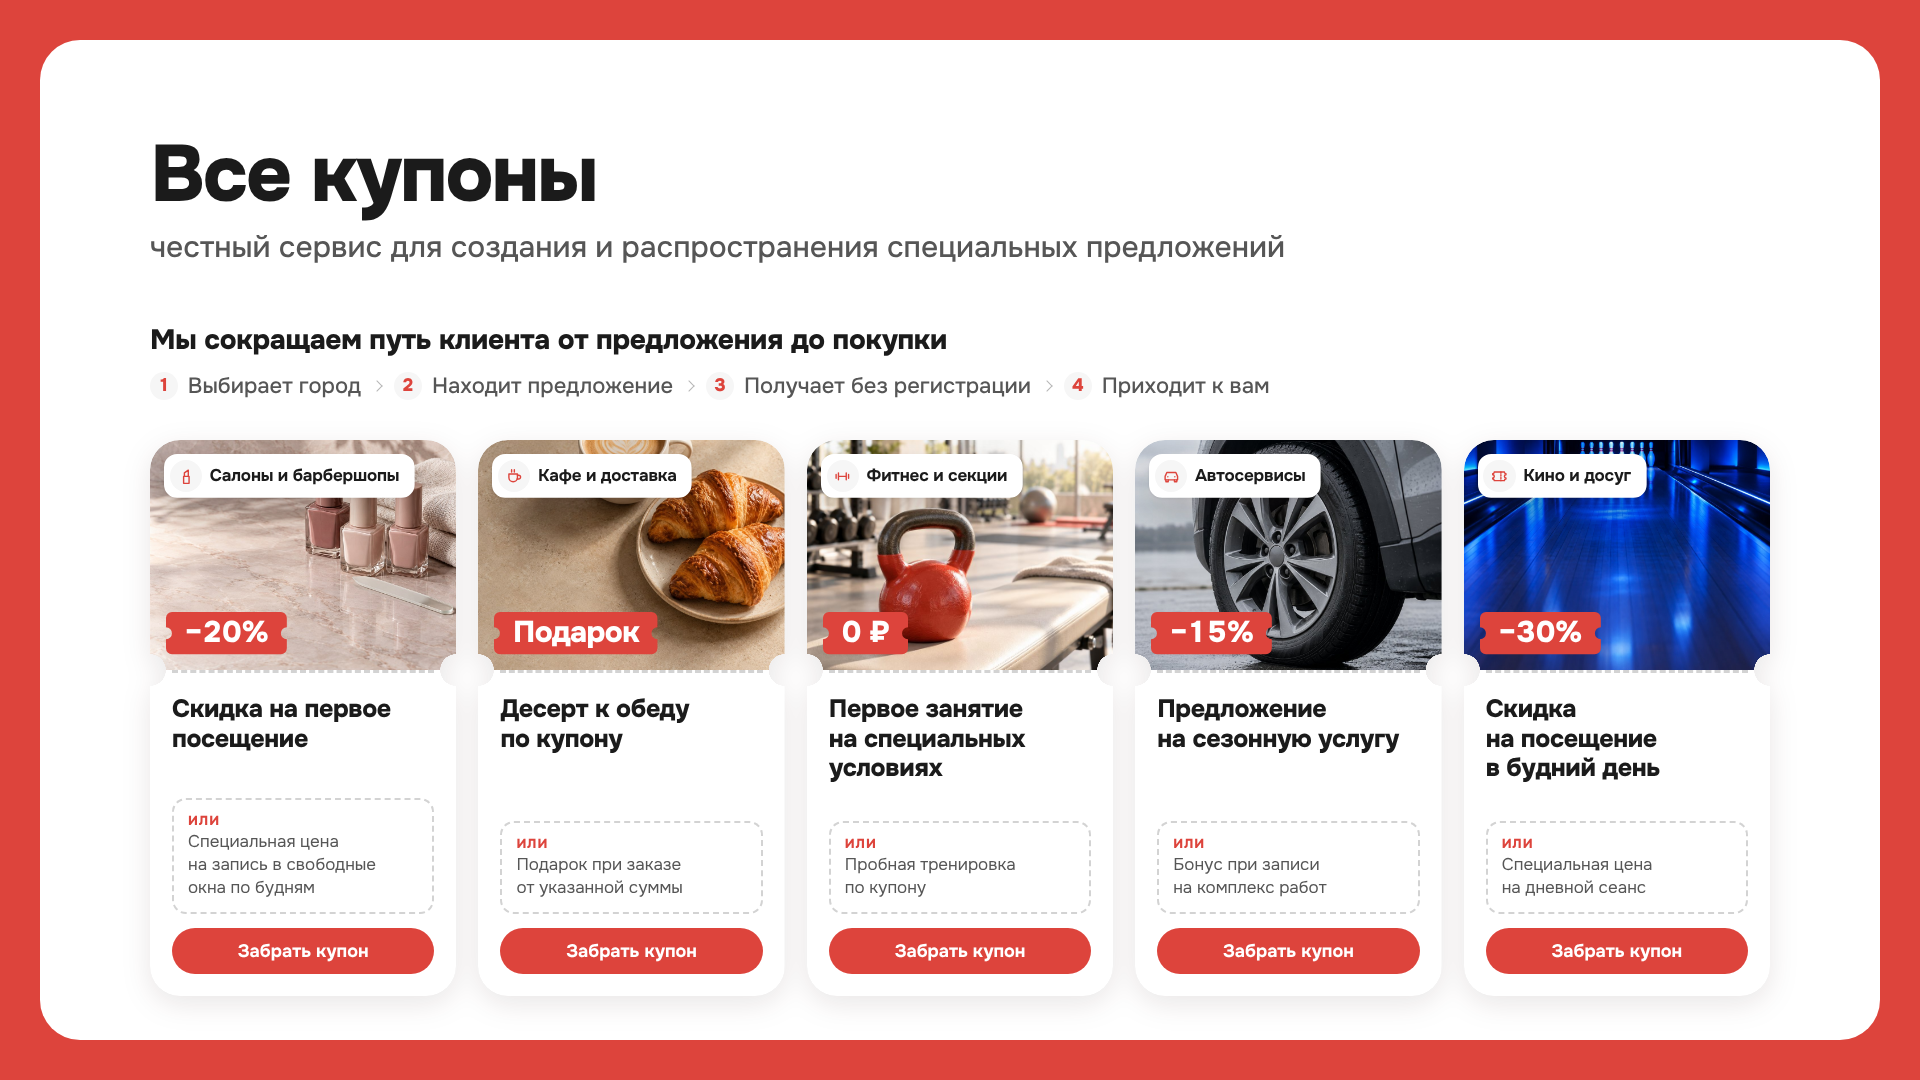
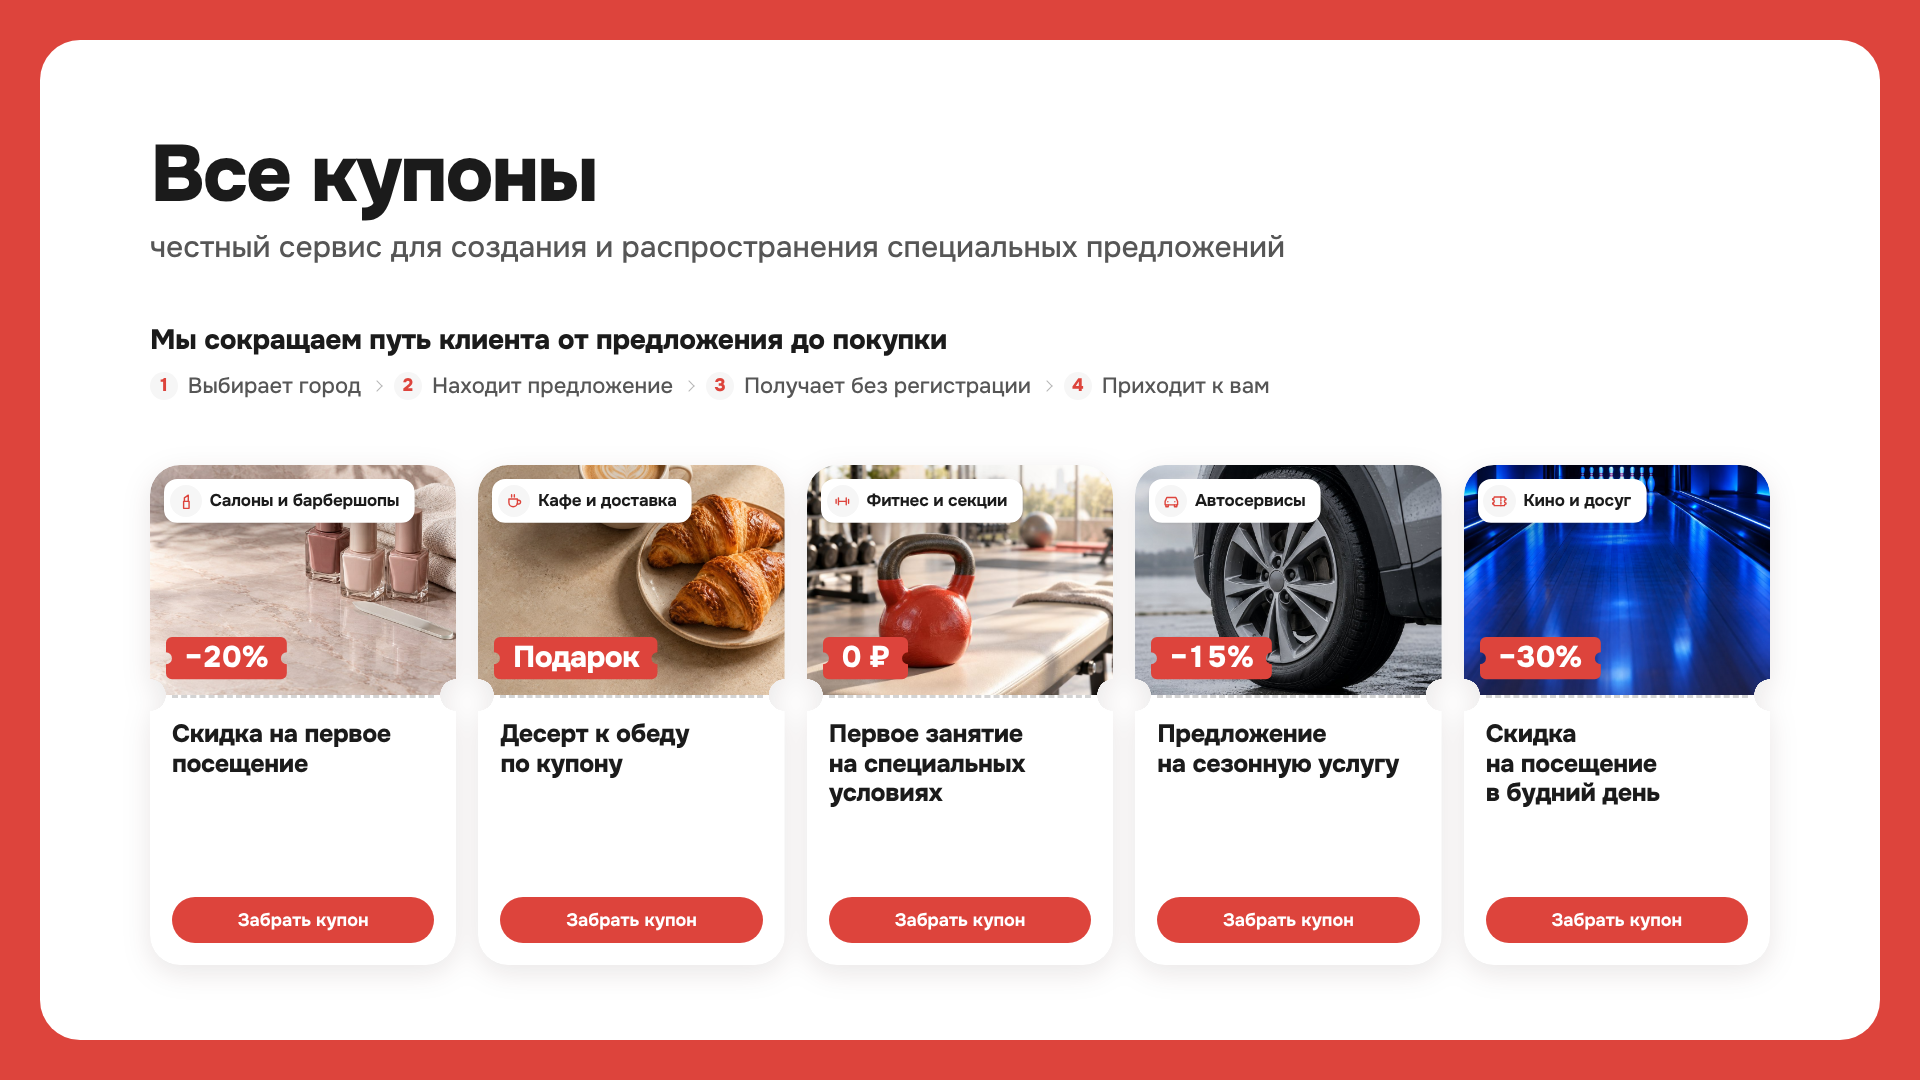
Презентация: счётчики просмотров и «забрали» на стене купонов, без блоков «или» в купонах ниш
Claude-Session: https://claude.ai/code/session_01HQTTQEBkqu3b2tPP56NRpL

Changed region(s): [[0.0625, 0.3972, 0.9375, 0.9167]]

diff --git a/social-kit/deck.html b/social-kit/deck.html
@@ -218,14 +218,14 @@ a{color:inherit;text-decoration:none}
 .short{position:absolute;left:110px;top:282px;display:flex;flex-direction:column;align-items:flex-start;gap:14px}
 .short__k{font-size:28px;font-weight:800;letter-spacing:-.01em}
 .short .steps{font-size:22px}
-.niches{position:absolute;left:150px;right:150px;top:440px;display:flex;gap:22px}
+.niches{position:absolute;left:150px;right:150px;top:465px;display:flex;gap:22px}
 /* Купон ниши — как карточка ленты: снимок с плашкой бизнеса и билетиком
    выгоды, линия отрыва, предложение, второй вариант в рамке «или»,
    кнопка. Величины выгоды — примеры. */
 /* Вырезы — маской из самой карточки (сквозные), тень — у ряда целиком
    через drop-shadow, поэтому она идёт по контуру купона вместе с вырезами */
 .niches{filter:drop-shadow(0 8px 14px rgba(40,10,8,.10))}
-.nc{flex:1;position:relative;height:556px;border-radius:30px;background:#fff;overflow:hidden;display:flex;flex-direction:column;
+.nc{flex:1;position:relative;height:500px;border-radius:30px;background:#fff;overflow:hidden;display:flex;flex-direction:column;
   -webkit-mask:radial-gradient(circle 16px at 0 230px,#0000 98%,#000) left/51% 100% no-repeat,radial-gradient(circle 16px at 100% 230px,#0000 98%,#000) right/51% 100% no-repeat;
           mask:radial-gradient(circle 16px at 0 230px,#0000 98%,#000) left/51% 100% no-repeat,radial-gradient(circle 16px at 100% 230px,#0000 98%,#000) right/51% 100% no-repeat}
 .nc__ph{position:relative;height:230px;flex:none;background:var(--surface-2) center / cover no-repeat}
@@ -237,7 +237,7 @@ a{color:inherit;text-decoration:none}
 .nc__t{font-size:25px;font-weight:800;line-height:1.18;letter-spacing:-.015em}
 .nc__or{margin-top:auto;padding:12px 14px;border-radius:14px;border:2px dashed var(--line-strong);font-size:17px;line-height:1.35;color:var(--ink-2)}
 .nc__or span{display:block;margin-bottom:2px;font-size:13px;font-weight:800;text-transform:uppercase;letter-spacing:.08em;color:var(--brand)}
-.nc__go{margin-top:14px;height:46px;border-radius:23px;background:var(--brand);color:#fff;display:grid;place-items:center;font-size:18px;font-weight:700}
+.nc__go{margin-top:auto;height:46px;border-radius:23px;background:var(--brand);color:#fff;display:grid;place-items:center;font-size:18px;font-weight:700}
 
 /* ==========================================================================
    3. Выгоду ищут каждый день — запросы Вордстата
@@ -476,7 +476,13 @@ a{color:inherit;text-decoration:none}
 .wc{position:relative;border-radius:22px;background:#fff;overflow:hidden;box-shadow:0 20px 34px -24px rgba(40,10,8,.4)}
 .wc__ph{position:relative;height:250px;background:center / cover no-repeat}
 .wc__ph .tk{position:absolute;left:14px;bottom:14px;font-size:26px}
-.wc__t{padding:14px 16px 18px;font-size:19px;font-weight:700;line-height:1.25}
+.wc__t{padding:14px 16px 8px;font-size:19px;font-weight:700;line-height:1.25}
+.wc__s{display:flex;align-items:center;gap:16px;padding:2px 16px 18px;font-size:20px;font-weight:700;color:var(--ink-2);font-variant-numeric:tabular-nums}
+.wc__s span{display:flex;align-items:center;gap:6px}
+.wc__s svg{width:22px;height:22px;color:var(--ink-3)}
+.wc__s span.is-hot{color:var(--brand)}
+.wc__s span.is-hot svg{color:var(--brand)}
+.wc.is-you .wc__s{color:var(--brand)}
 .wc.is-you{transform:scale(1.06);box-shadow:0 0 0 6px var(--brand), 0 30px 50px -20px rgba(120,20,10,.55);z-index:2}
 .wc__you{position:absolute;right:14px;top:14px;padding:8px 14px;border-radius:16px;background:var(--brand);color:#fff;font-size:18px;font-weight:800}
 /* Плашка и купон с QR — одной ширины (820), по одной левой линии */
@@ -565,35 +571,30 @@ a{color:inherit;text-decoration:none}
         <div class="nc__ph" style="background-image:url('../assets/coupons/manikyur-rose.jpg');background-position:50% 20%"><span data-stub="krasota|Салоны и барбершопы"></span><span class="tk">−20%</span></div>
         <div class="nc__perf"><i></i><i></i></div>
         <div class="nc__b"><div class="nc__t">Скидка на&nbsp;первое посещение</div>
-          <div class="nc__or"><span>или</span>Специальная цена на&nbsp;запись в&nbsp;свободные окна по&nbsp;будням</div>
           <div class="nc__go">Забрать купон</div></div>
       </div>
       <div class="nc">
         <div class="nc__ph" style="background-image:url('../assets/coupons/kofe-warm.jpg');background-position:50% 30%"><span data-stub="eda|Кафе и доставка"></span><span class="tk">Подарок</span></div>
         <div class="nc__perf"><i></i><i></i></div>
         <div class="nc__b"><div class="nc__t">Десерт к&nbsp;обеду по&nbsp;купону</div>
-          <div class="nc__or"><span>или</span>Подарок при заказе от&nbsp;указанной суммы</div>
           <div class="nc__go">Забрать купон</div></div>
       </div>
       <div class="nc">
         <div class="nc__ph" style="background-image:url('../assets/coupons/fitness.jpg');background-position:40% 70%"><span data-stub="sport|Фитнес и секции"></span><span class="tk">0&nbsp;₽</span></div>
         <div class="nc__perf"><i></i><i></i></div>
         <div class="nc__b"><div class="nc__t">Первое занятие на&nbsp;специальных условиях</div>
-          <div class="nc__or"><span>или</span>Пробная тренировка по&nbsp;купону</div>
           <div class="nc__go">Забрать купон</div></div>
       </div>
       <div class="nc">
         <div class="nc__ph" style="background-image:url('../assets/coupons/avto-steel.jpg');background-position:50% 50%"><span data-stub="avto|Автосервисы"></span><span class="tk">−15%</span></div>
         <div class="nc__perf"><i></i><i></i></div>
         <div class="nc__b"><div class="nc__t">Предложение на&nbsp;сезонную услугу</div>
-          <div class="nc__or"><span>или</span>Бонус при записи на&nbsp;комплекс работ</div>
           <div class="nc__go">Забрать купон</div></div>
       </div>
       <div class="nc">
         <div class="nc__ph" style="background-image:url('../assets/coupons/razvlecheniya-blue.jpg');background-position:50% 50%"><span data-stub="ticket|Кино и досуг"></span><span class="tk">−30%</span></div>
         <div class="nc__perf"><i></i><i></i></div>
         <div class="nc__b"><div class="nc__t">Скидка на&nbsp;посещение в&nbsp;будний день</div>
-          <div class="nc__or"><span>или</span>Специальная цена на&nbsp;дневной сеанс</div>
           <div class="nc__go">Забрать купон</div></div>
       </div>
     </div>
@@ -796,7 +797,7 @@ a{color:inherit;text-decoration:none}
       </div>
     </div>
     <div class="posts">
-      <div class="wall"><div class="wall__col"><div class="wc"><div class="wc__ph" style="background-image:url('../assets/coupons/kofe-warm.jpg')"><span class="tk">5 = 4</span></div><div class="wc__t">Каждая пятая чашка кофе в&nbsp;подарок</div></div><div class="wc"><div class="wc__ph" style="background-image:url('../assets/coupons/fitness.jpg')"><span class="tk">−35%</span></div><div class="wc__t">Годовой абонемент в&nbsp;клуб</div></div><div class="wc"><div class="wc__ph" style="background-image:url('../assets/coupons/pitomtsy-brown.jpg')"><span class="tk">−15%</span></div><div class="wc__t">Корм при покупке от&nbsp;3&nbsp;кг</div></div><div class="wc"><div class="wc__ph" style="background-image:url('../assets/coupons/manikyur-rose.jpg')"><span class="tk">2 = 1</span></div><div class="wc__t">Маникюр с&nbsp;покрытием</div></div></div><div class="wall__col"><div class="wc"><div class="wc__ph" style="background-image:url('../assets/coupons/avto-steel.jpg')"><span class="tk">−20%</span></div><div class="wc__t">Шиномонтаж перед сезоном</div></div><div class="wc is-you"><div class="wc__ph" style="background-image:url('../assets/coupons/eda-cool.jpg')"><span class=wc__you>Ваш купон</span><span class="tk">0 ₽</span></div><div class="wc__t">Ваше первое предложение</div></div><div class="wc"><div class="wc__ph" style="background-image:url('../assets/coupons/detyam-yellow.jpg')"><span class="tk">0 ₽</span></div><div class="wc__t">Первое занятие в&nbsp;студии</div></div><div class="wc"><div class="wc__ph" style="background-image:url('../assets/coupons/razvlecheniya-blue.jpg')"><span class="tk">−30%</span></div><div class="wc__t">Боулинг в&nbsp;будни</div></div></div><div class="wall__col"><div class="wc"><div class="wc__ph" style="background-image:url('../assets/coupons/dom-beige.jpg')"><span class="tk">−25%</span></div><div class="wc__t">Текстиль и&nbsp;посуда</div></div><div class="wc"><div class="wc__ph" style="background-image:url('../assets/coupons/beauty.jpg')"><span class="tk">−25%</span></div><div class="wc__t">Окрашивание любой сложности</div></div><div class="wc"><div class="wc__ph" style="background-image:url('../assets/coupons/coffee.jpg')"><span class="tk">Подарок</span></div><div class="wc__t">Десерт к&nbsp;любому напитку</div></div><div class="wc"><div class="wc__ph" style="background-image:url('../assets/coupons/sport-teal.jpg')"><span class="tk">0 ₽</span></div><div class="wc__t">Пробная неделя в&nbsp;клубе</div></div></div></div>
+      <div class="wall"><div class="wall__col"><div class="wc"><div class="wc__ph" style="background-image:url('../assets/coupons/kofe-warm.jpg')"><span class="tk">5 = 4</span></div><div class="wc__t">Каждая пятая чашка кофе в&nbsp;подарок</div><div class="wc__s"><span><svg viewBox="0 0 24 24" fill="none" stroke="currentColor" stroke-width="2"><path d="M2 12s3.6-6 10-6 10 6 10 6-3.6 6-10 6S2 12 2 12Z"/><circle cx="12" cy="12" r="2.6"/></svg>3,1к</span><span class="is-hot"><svg viewBox="0 0 24 24" fill="none" stroke="currentColor" stroke-width="2" stroke-linejoin="round"><path d="M3.5 8.5a2 2 0 0 0 2-2h13a2 2 0 0 0 2 2v1.5a2 2 0 0 0 0 4v1.5a2 2 0 0 0-2 2h-13a2 2 0 0 0-2-2V14a2 2 0 0 0 0-4z"/></svg>забрали 412</span></div></div><div class="wc"><div class="wc__ph" style="background-image:url('../assets/coupons/fitness.jpg')"><span class="tk">−35%</span></div><div class="wc__t">Годовой абонемент в&nbsp;клуб</div><div class="wc__s"><span><svg viewBox="0 0 24 24" fill="none" stroke="currentColor" stroke-width="2"><path d="M2 12s3.6-6 10-6 10 6 10 6-3.6 6-10 6S2 12 2 12Z"/><circle cx="12" cy="12" r="2.6"/></svg>1,8к</span><span class="is-hot"><svg viewBox="0 0 24 24" fill="none" stroke="currentColor" stroke-width="2" stroke-linejoin="round"><path d="M3.5 8.5a2 2 0 0 0 2-2h13a2 2 0 0 0 2 2v1.5a2 2 0 0 0 0 4v1.5a2 2 0 0 0-2 2h-13a2 2 0 0 0-2-2V14a2 2 0 0 0 0-4z"/></svg>забрали 236</span></div></div><div class="wc"><div class="wc__ph" style="background-image:url('../assets/coupons/pitomtsy-brown.jpg')"><span class="tk">−15%</span></div><div class="wc__t">Корм при покупке от&nbsp;3&nbsp;кг</div><div class="wc__s"><span><svg viewBox="0 0 24 24" fill="none" stroke="currentColor" stroke-width="2"><path d="M2 12s3.6-6 10-6 10 6 10 6-3.6 6-10 6S2 12 2 12Z"/><circle cx="12" cy="12" r="2.6"/></svg>940</span><span class="is-hot"><svg viewBox="0 0 24 24" fill="none" stroke="currentColor" stroke-width="2" stroke-linejoin="round"><path d="M3.5 8.5a2 2 0 0 0 2-2h13a2 2 0 0 0 2 2v1.5a2 2 0 0 0 0 4v1.5a2 2 0 0 0-2 2h-13a2 2 0 0 0-2-2V14a2 2 0 0 0 0-4z"/></svg>забрали 118</span></div></div><div class="wc"><div class="wc__ph" style="background-image:url('../assets/coupons/manikyur-rose.jpg')"><span class="tk">2 = 1</span></div><div class="wc__t">Маникюр с&nbsp;покрытием</div><div class="wc__s"><span><svg viewBox="0 0 24 24" fill="none" stroke="currentColor" stroke-width="2"><path d="M2 12s3.6-6 10-6 10 6 10 6-3.6 6-10 6S2 12 2 12Z"/><circle cx="12" cy="12" r="2.6"/></svg>2,4к</span><span class="is-hot"><svg viewBox="0 0 24 24" fill="none" stroke="currentColor" stroke-width="2" stroke-linejoin="round"><path d="M3.5 8.5a2 2 0 0 0 2-2h13a2 2 0 0 0 2 2v1.5a2 2 0 0 0 0 4v1.5a2 2 0 0 0-2 2h-13a2 2 0 0 0-2-2V14a2 2 0 0 0 0-4z"/></svg>забрали 305</span></div></div></div><div class="wall__col"><div class="wc"><div class="wc__ph" style="background-image:url('../assets/coupons/avto-steel.jpg')"><span class="tk">−20%</span></div><div class="wc__t">Шиномонтаж перед сезоном</div><div class="wc__s"><span><svg viewBox="0 0 24 24" fill="none" stroke="currentColor" stroke-width="2"><path d="M2 12s3.6-6 10-6 10 6 10 6-3.6 6-10 6S2 12 2 12Z"/><circle cx="12" cy="12" r="2.6"/></svg>1,2к</span><span class="is-hot"><svg viewBox="0 0 24 24" fill="none" stroke="currentColor" stroke-width="2" stroke-linejoin="round"><path d="M3.5 8.5a2 2 0 0 0 2-2h13a2 2 0 0 0 2 2v1.5a2 2 0 0 0 0 4v1.5a2 2 0 0 0-2 2h-13a2 2 0 0 0-2-2V14a2 2 0 0 0 0-4z"/></svg>забрали 164</span></div></div><div class="wc is-you"><div class="wc__ph" style="background-image:url('../assets/coupons/eda-cool.jpg')"><span class=wc__you>Ваш купон</span><span class="tk">0 ₽</span></div><div class="wc__t">Ваше первое предложение</div><div class="wc__s"><span>Тут будут ваши клиенты</span></div></div><div class="wc"><div class="wc__ph" style="background-image:url('../assets/coupons/detyam-yellow.jpg')"><span class="tk">0 ₽</span></div><div class="wc__t">Первое занятие в&nbsp;студии</div><div class="wc__s"><span><svg viewBox="0 0 24 24" fill="none" stroke="currentColor" stroke-width="2"><path d="M2 12s3.6-6 10-6 10 6 10 6-3.6 6-10 6S2 12 2 12Z"/><circle cx="12" cy="12" r="2.6"/></svg>2,0к</span><span class="is-hot"><svg viewBox="0 0 24 24" fill="none" stroke="currentColor" stroke-width="2" stroke-linejoin="round"><path d="M3.5 8.5a2 2 0 0 0 2-2h13a2 2 0 0 0 2 2v1.5a2 2 0 0 0 0 4v1.5a2 2 0 0 0-2 2h-13a2 2 0 0 0-2-2V14a2 2 0 0 0 0-4z"/></svg>забрали 271</span></div></div><div class="wc"><div class="wc__ph" style="background-image:url('../assets/coupons/razvlecheniya-blue.jpg')"><span class="tk">−30%</span></div><div class="wc__t">Боулинг в&nbsp;будни</div><div class="wc__s"><span><svg viewBox="0 0 24 24" fill="none" stroke="currentColor" stroke-width="2"><path d="M2 12s3.6-6 10-6 10 6 10 6-3.6 6-10 6S2 12 2 12Z"/><circle cx="12" cy="12" r="2.6"/></svg>1,5к</span><span class="is-hot"><svg viewBox="0 0 24 24" fill="none" stroke="currentColor" stroke-width="2" stroke-linejoin="round"><path d="M3.5 8.5a2 2 0 0 0 2-2h13a2 2 0 0 0 2 2v1.5a2 2 0 0 0 0 4v1.5a2 2 0 0 0-2 2h-13a2 2 0 0 0-2-2V14a2 2 0 0 0 0-4z"/></svg>забрали 198</span></div></div></div><div class="wall__col"><div class="wc"><div class="wc__ph" style="background-image:url('../assets/coupons/dom-beige.jpg')"><span class="tk">−25%</span></div><div class="wc__t">Текстиль и&nbsp;посуда</div><div class="wc__s"><span><svg viewBox="0 0 24 24" fill="none" stroke="currentColor" stroke-width="2"><path d="M2 12s3.6-6 10-6 10 6 10 6-3.6 6-10 6S2 12 2 12Z"/><circle cx="12" cy="12" r="2.6"/></svg>870</span><span class="is-hot"><svg viewBox="0 0 24 24" fill="none" stroke="currentColor" stroke-width="2" stroke-linejoin="round"><path d="M3.5 8.5a2 2 0 0 0 2-2h13a2 2 0 0 0 2 2v1.5a2 2 0 0 0 0 4v1.5a2 2 0 0 0-2 2h-13a2 2 0 0 0-2-2V14a2 2 0 0 0 0-4z"/></svg>забрали 97</span></div></div><div class="wc"><div class="wc__ph" style="background-image:url('../assets/coupons/beauty.jpg')"><span class="tk">−25%</span></div><div class="wc__t">Окрашивание любой сложности</div><div class="wc__s"><span><svg viewBox="0 0 24 24" fill="none" stroke="currentColor" stroke-width="2"><path d="M2 12s3.6-6 10-6 10 6 10 6-3.6 6-10 6S2 12 2 12Z"/><circle cx="12" cy="12" r="2.6"/></svg>2,7к</span><span class="is-hot"><svg viewBox="0 0 24 24" fill="none" stroke="currentColor" stroke-width="2" stroke-linejoin="round"><path d="M3.5 8.5a2 2 0 0 0 2-2h13a2 2 0 0 0 2 2v1.5a2 2 0 0 0 0 4v1.5a2 2 0 0 0-2 2h-13a2 2 0 0 0-2-2V14a2 2 0 0 0 0-4z"/></svg>забрали 352</span></div></div><div class="wc"><div class="wc__ph" style="background-image:url('../assets/coupons/coffee.jpg')"><span class="tk">Подарок</span></div><div class="wc__t">Десерт к&nbsp;любому напитку</div><div class="wc__s"><span><svg viewBox="0 0 24 24" fill="none" stroke="currentColor" stroke-width="2"><path d="M2 12s3.6-6 10-6 10 6 10 6-3.6 6-10 6S2 12 2 12Z"/><circle cx="12" cy="12" r="2.6"/></svg>1,9к</span><span class="is-hot"><svg viewBox="0 0 24 24" fill="none" stroke="currentColor" stroke-width="2" stroke-linejoin="round"><path d="M3.5 8.5a2 2 0 0 0 2-2h13a2 2 0 0 0 2 2v1.5a2 2 0 0 0 0 4v1.5a2 2 0 0 0-2 2h-13a2 2 0 0 0-2-2V14a2 2 0 0 0 0-4z"/></svg>забрали 240</span></div></div><div class="wc"><div class="wc__ph" style="background-image:url('../assets/coupons/sport-teal.jpg')"><span class="tk">0 ₽</span></div><div class="wc__t">Пробная неделя в&nbsp;клубе</div><div class="wc__s"><span><svg viewBox="0 0 24 24" fill="none" stroke="currentColor" stroke-width="2"><path d="M2 12s3.6-6 10-6 10 6 10 6-3.6 6-10 6S2 12 2 12Z"/><circle cx="12" cy="12" r="2.6"/></svg>1,1к</span><span class="is-hot"><svg viewBox="0 0 24 24" fill="none" stroke="currentColor" stroke-width="2" stroke-linejoin="round"><path d="M3.5 8.5a2 2 0 0 0 2-2h13a2 2 0 0 0 2 2v1.5a2 2 0 0 0 0 4v1.5a2 2 0 0 0-2 2h-13a2 2 0 0 0-2-2V14a2 2 0 0 0 0-4z"/></svg>забрали 143</span></div></div></div></div>
     </div>
     <i class="cut cut--vt"></i><i class="cut cut--vb"></i>
   </section>
